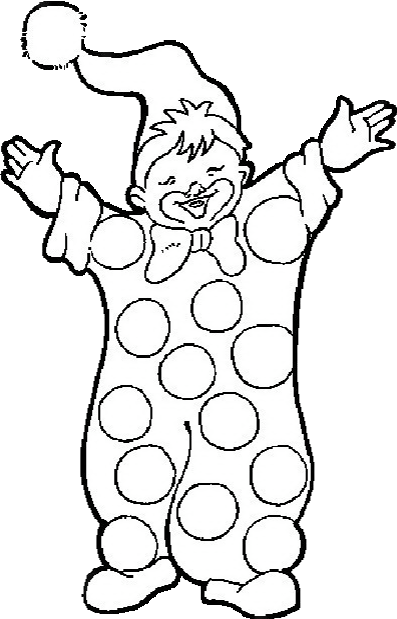
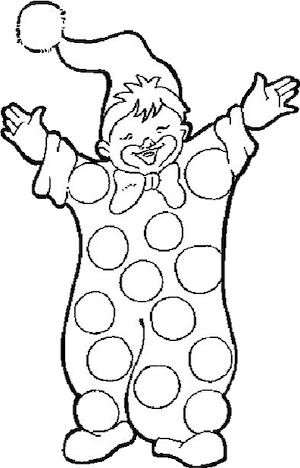
Change clown size

diff --git a/src/dev/tahkeer/tadmer/model/Clown.java b/src/dev/tahkeer/tadmer/model/Clown.java
@@ -16,35 +16,30 @@ public class Clown extends DefaultGameObject implements GameObject {
     private final Hand leftHand = new Hand();
     private final Hand rightHand = new Hand();
     private final BufferedImage[] vectors = new BufferedImage[1];
-    private Image scaledImage;
+    private final BufferedImage image;
     private final int yOfClown;
     private final ArrayList<ShapesEventListener> listeners = new ArrayList<>();
 
     public Clown(int x, int y) {
-        this.setWidth(300);
+        try {
+            image = ImageIO.read(new File("./res/colored_clown.png"));
+        } catch (IOException e) {
+            throw new RuntimeException(e);
+        }
 
         this.setX(x);
         yOfClown = y;
 
         leftHand.setY(this.getHeight());
         rightHand.setY(this.getHeight());
-
-        this.generateImage();
-
-        int widthDivided = getWidth() - getWidth()/19;
-        try {
-            scaledImage = ImageIO.read(new File("./res/colored_clown.png"))
-                    .getScaledInstance(widthDivided, (int) (widthDivided / this.aspectRatio())+50, Image.SCALE_SMOOTH);
-        } catch (IOException ignored) {}
     }
 
     @Override
     public void setX(int x) {
         super.setX(x);
 
-        leftHand.setX(x);
-        rightHand.setX(x + 2*(getWidth()*2/ 19)+150 );
-
+        leftHand.setX(x + 25);
+        rightHand.setX(x + this.getWidth() - 25);
     }
 
     @Override
@@ -55,15 +50,15 @@ public class Clown extends DefaultGameObject implements GameObject {
     }
 
     public boolean holds(Shape shape) {
-        Point shapePoint = new Point(shape.getX(), shape.getY());
+        Point shapePoint = new Point(shape.getX() + shape.getWidth()/2, shape.getY());
 
         Hand[] hands = new Hand[]{
                 leftHand, rightHand
         };
 
         for (Hand hand : hands) {
-            if(Math.abs(hand.getY() - shapePoint.y) < 2
-                    && Math.abs(hand.getX() - shapePoint.x) < 40) {
+            if(shapePoint.y - hand.getY() <= 5 && shapePoint.y - hand.getY() >= 0
+                    && Math.abs(hand.getX() - shapePoint.x) <= 50) {
 
                 if(shape instanceof Bomb) {
                     listeners.forEach(ShapesEventListener::bombCaught);
@@ -84,11 +79,25 @@ public class Clown extends DefaultGameObject implements GameObject {
         return false;
     }
     public int getRealHeight() {
-        return getHeight() + Math.max(leftHand.heightOfShapes(), rightHand.heightOfShapes()) ;
+        return getHeight() + Math.max(leftHand.heightOfShapes(), rightHand.heightOfShapes());
     }
 
-    private BufferedImage generateImage() {
+    @Override
+    public int getWidth() {
+        return image.getWidth();
+    }
 
+    @Override
+    public int getHeight() {
+        return image.getHeight();
+    }
+
+    @Override
+    public boolean isVisible() {
+        return true;
+    }
+
+    public BufferedImage generateImage() {
         BufferedImage clownImage = new BufferedImage(
                 getWidth(),
                 getRealHeight(),
@@ -98,41 +107,22 @@ public class Clown extends DefaultGameObject implements GameObject {
 
         g2d.setRenderingHint(RenderingHints.KEY_ANTIALIASING, RenderingHints.VALUE_ANTIALIAS_ON);
 
-        g2d.drawImage(scaledImage, 0, getRealHeight()-this.getHeight(), null);
+        g2d.drawImage(image, 0, getRealHeight()-this.getHeight(), null);
 
         g2d.dispose();
 
-        this.position.y = yOfClown - (getRealHeight() - this.getHeight()/3) - 20;
+        position.y = yOfClown - this.getRealHeight();
 
         return clownImage;
     }
 
-    protected void setWidth(int width) {
-        this.width = width;
-        this.height = (int) (width * this.aspectRatio());
-    }
-
-    protected void setHeight(int height) {
-        this.height = height;
-        this.width = (int) (height / this.aspectRatio());
-    }
-
-    private double aspectRatio() {
-        return 743 / 561D;
-    }
-
-    @Override
-    public boolean isVisible() {
-        return true;
-    }
-
     @Override
     public BufferedImage[] getSpriteImages() {
-        BufferedImage image = generateImage();
+        BufferedImage image = this.generateImage();
 
         Graphics2D g2d = image.createGraphics();
 
-        final int biggestY = Math.max(leftHand.heightOfShapes(), rightHand.heightOfShapes());
+        final int biggestY = Math.max(leftHand.heightOfShapes(), rightHand.heightOfShapes()) - 10;
 
         int lastY = biggestY;
         for (BufferedImage shapeImage : leftHand.getSpriteImages()) {
@@ -142,7 +132,7 @@ public class Clown extends DefaultGameObject implements GameObject {
 
         lastY = biggestY;
         for (BufferedImage shapeImage : rightHand.getSpriteImages()) {
-            g2d.drawImage(shapeImage, this.getWidth()-100, lastY, null);
+            g2d.drawImage(shapeImage, this.getWidth()-shapeImage.getWidth(), lastY, null);
             lastY -= shapeImage.getHeight();
         }
 

diff --git a/src/dev/tahkeer/tadmer/controller/Game.java b/src/dev/tahkeer/tadmer/controller/Game.java
@@ -14,10 +14,10 @@ import java.util.List;
 import java.util.concurrent.CopyOnWriteArrayList;
 
 public class Game implements World {
-    final CopyOnWriteArrayList<Shape> shapes = new CopyOnWriteArrayList<>();
-    final CopyOnWriteArrayList<Clown> clowns = new CopyOnWriteArrayList<>();
-    final CopyOnWriteArrayList<GameObject> constant = new CopyOnWriteArrayList<>();
-    final ArrayList<Platform> platforms = new ArrayList<>();
+    final List<Shape> shapes = new CopyOnWriteArrayList<>();
+    final List<Clown> clowns = new CopyOnWriteArrayList<>();
+    final List<GameObject> constant = new CopyOnWriteArrayList<>();
+    final List<Platform> platforms = new ArrayList<>();
     final Score score = Score.getInstance();
     Level level;
     AsyncWaiter shapeGenerator;

diff --git a/src/dev/tahkeer/tadmer/model/Hand.java b/src/dev/tahkeer/tadmer/model/Hand.java
@@ -1,6 +1,7 @@
 package dev.tahkeer.tadmer.model;
 import dev.tahkeer.tadmer.utils.interfaces.Shape;
 import eg.edu.alexu.csd.oop.game.GameObject;
+
 import java.awt.image.BufferedImage;
 import java.util.ArrayList;
 import java.util.concurrent.atomic.AtomicReference;

diff --git a/src/dev/tahkeer/tadmer/utils/factories/ClownFactory.java b/src/dev/tahkeer/tadmer/utils/factories/ClownFactory.java
@@ -5,7 +5,7 @@ import dev.tahkeer.tadmer.model.Clown;
 public class ClownFactory {
 
     public static Clown generate(int x, int y) {
-        return new Clown(x, y);
+        return new Clown(x, y - 30);
     }
 
 }
